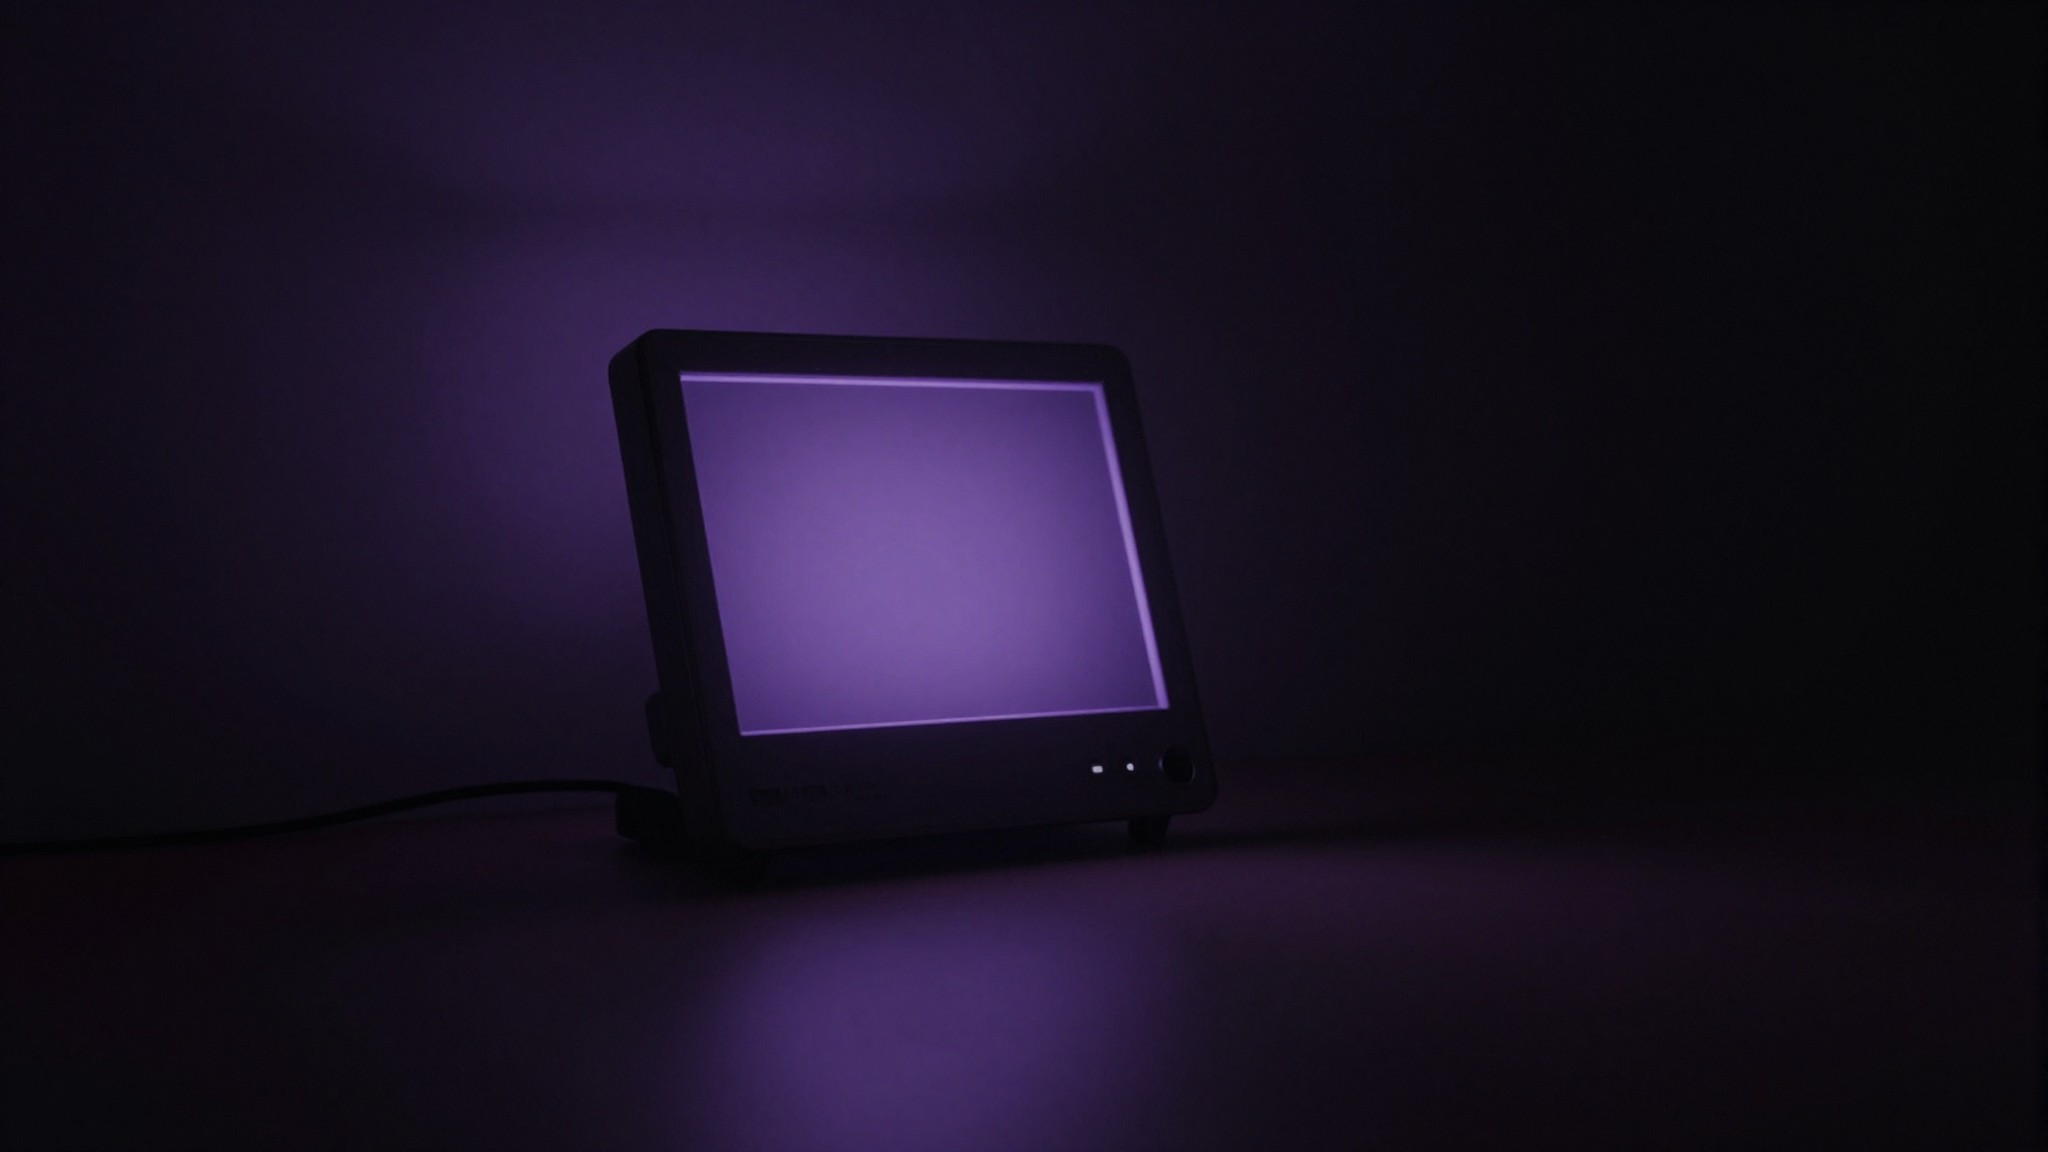
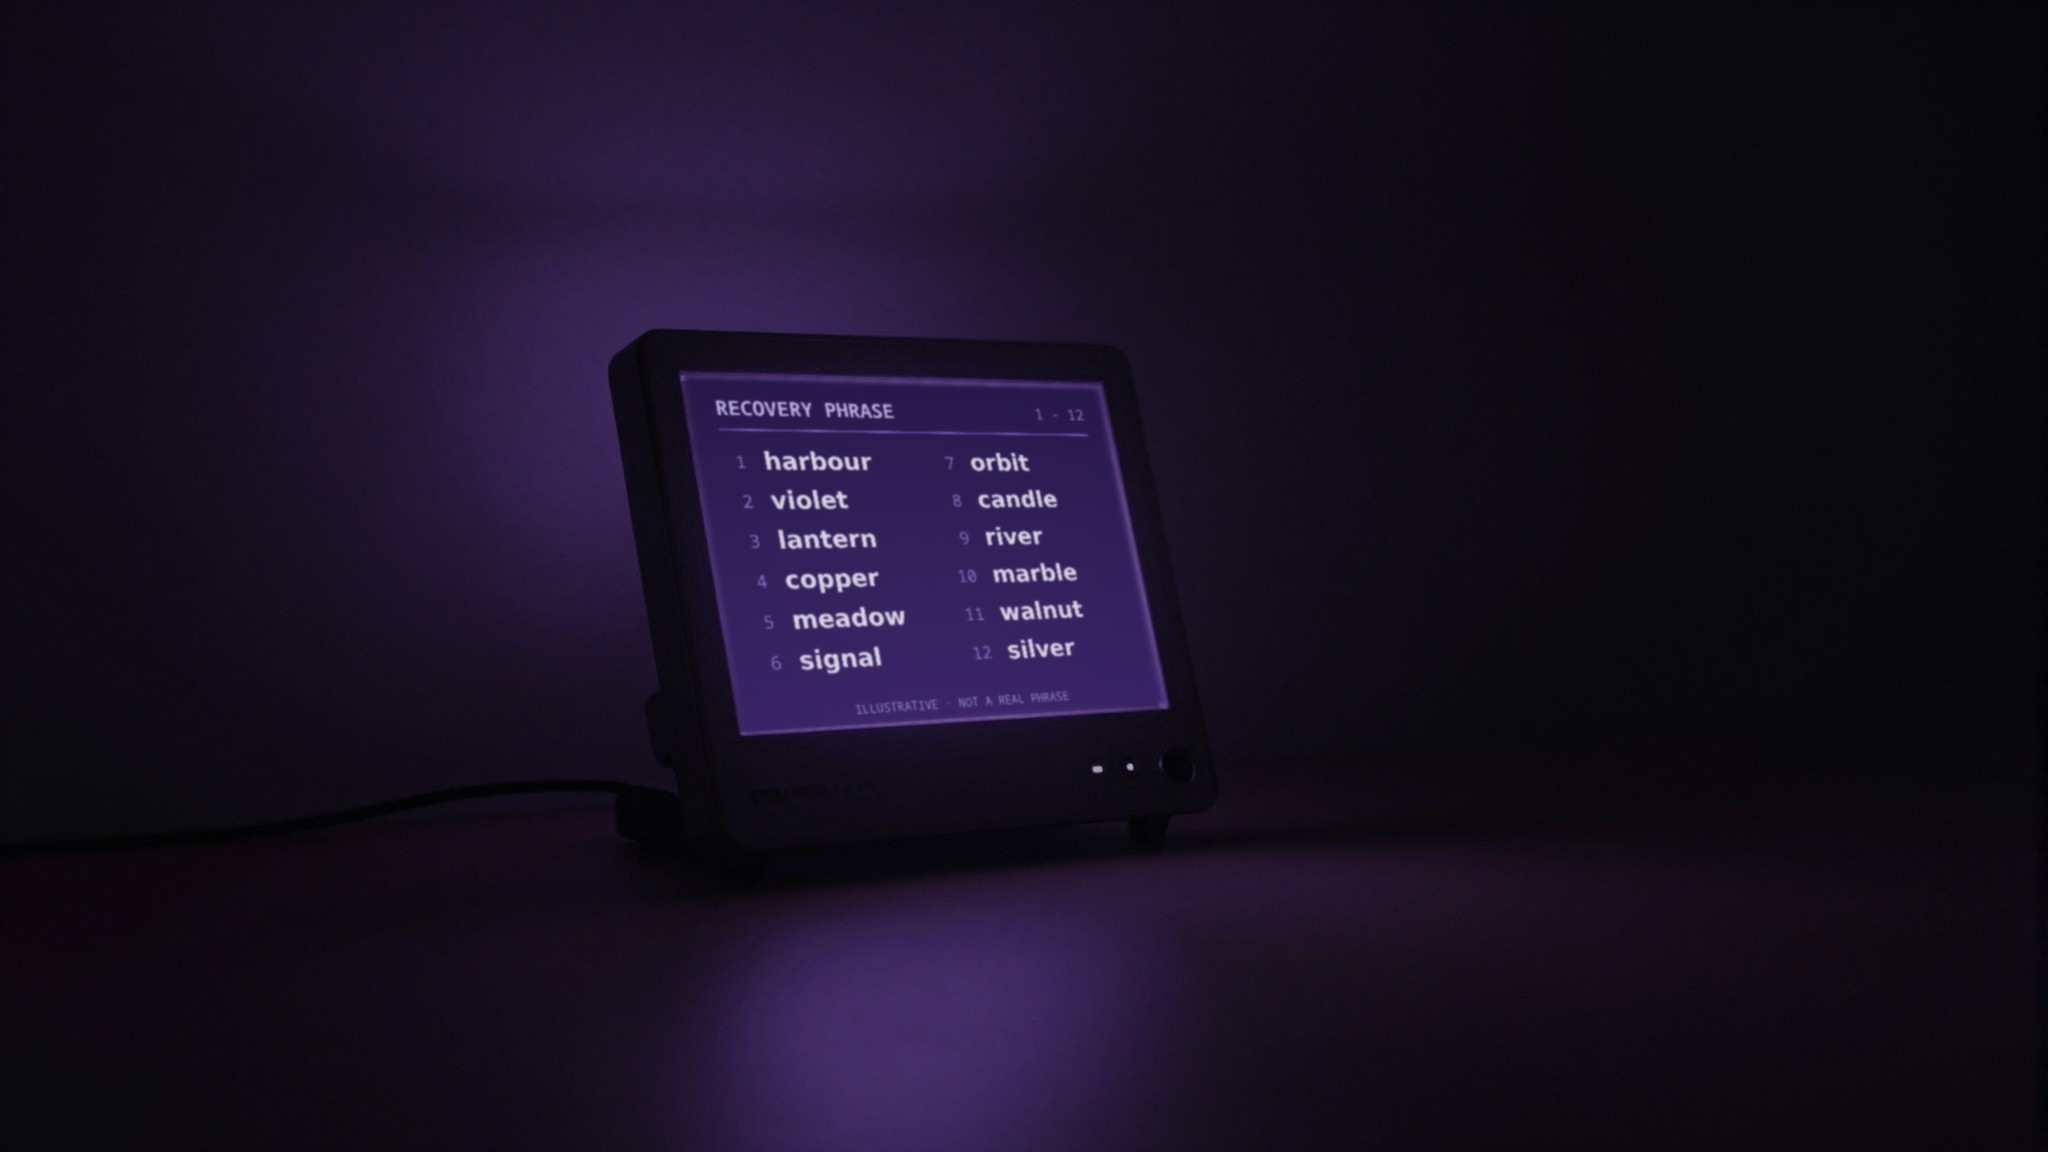
ep004 montage: fixes after first stills (Montserrat, Thomas crop, caption contrast, screen content, labels)
Claude-Session: https://claude.ai/code/session_01Ms4JQ56eZy6fr2K7HfgwG7

Changed region(s): [[0.3125, 0.3125, 0.5938, 0.6562]]

diff --git a/scripts/ep004_screen_content.py b/scripts/ep004_screen_content.py
@@ -1,0 +1,109 @@
+"""Put content on the blank screens of three ep. 004 illustrations (CPU only; owner rule: no empty screens).
+
+b6_setup_screen   small device on the desk: one recovery word being shown ("Word 7 of 24").
+b7_secret_display the device alone: a numbered word list (invented words, labelled ILLUSTRATIVE).
+h1_owner_kitchen  laptop behind the held device: a wallet app asking to connect the device.
+
+Flat content -> perspective warp onto the screen quad -> feathered mask -> blended into the photo.
+The untouched originals are kept next to the result as <name>_blank.jpg (made on the first run).
+"""
+import os
+import shutil
+import cv2
+import numpy as np
+from PIL import Image, ImageDraw, ImageFont
+
+ROOT = os.path.join(os.path.dirname(os.path.abspath(__file__)), "..")
+IMG = os.path.join(ROOT, "illustrations", "ep004", "img")
+SANS = "/usr/share/fonts/truetype/dejavu/DejaVuSans%s.ttf"
+MONO = os.path.join(ROOT, "fonts", "NotoSansMono-%s.ttf")
+WORDS = ["harbour", "violet", "lantern", "copper", "meadow", "signal", "orbit", "candle", "river", "marble",
+         "walnut", "silver"]
+
+
+def F(path, size):
+    return ImageFont.truetype(path, size)
+
+
+def one_word(W=900, H=700):
+    im = Image.new("RGB", (W, H), (96, 226, 196))
+    d = ImageDraw.Draw(im)
+    dark = (10, 46, 44)
+    d.text((W / 2, 150), "WORD 7 OF 24", font=F(MONO % "Bold", 62), fill=(24, 92, 84), anchor="mm")
+    d.text((W / 2, 360), "orbit", font=F(SANS % "-Bold", 210), fill=dark, anchor="mm")
+    for i in range(24):
+        x = 96 + i * 30
+        d.rounded_rectangle((x, 560, x + 20, 580), 5, fill=dark if i < 7 else (60, 170, 150))
+    return im
+
+
+def word_list(W=1300, H=1000):
+    g = np.linspace(0, 1, H)[:, None] + np.zeros((1, W))
+    im = Image.fromarray(np.dstack([40 + 22 * g, 26 + 14 * g, 78 + 34 * g]).astype(np.uint8))
+    d = ImageDraw.Draw(im)
+    d.text((80, 96), "RECOVERY PHRASE", font=F(MONO % "Bold", 58), fill=(214, 200, 255), anchor="lm")
+    d.text((W - 80, 96), "1 - 12", font=F(MONO % "Regular", 46), fill=(160, 140, 220), anchor="rm")
+    d.line((80, 160, W - 80, 160), fill=(140, 112, 230), width=4)
+    for i, w in enumerate(WORDS):
+        x = 80 + (i // 6) * 620
+        y = 250 + (i % 6) * 112
+        d.text((x, y), "%2d" % (i + 1), font=F(MONO % "Regular", 50), fill=(150, 128, 220), anchor="lm")
+        d.text((x + 110, y), w, font=F(SANS % "-Bold", 70), fill=(244, 240, 255), anchor="lm")
+    d.text((W / 2, H - 50), "ILLUSTRATIVE · NOT A REAL PHRASE", font=F(MONO % "Regular", 34),
+           fill=(170, 150, 230), anchor="mm")
+    return im
+
+
+def wallet_app(W=1500, H=1000):
+    im = Image.new("RGB", (W, H), (20, 18, 30))
+    d = ImageDraw.Draw(im)
+    d.rectangle((0, 0, W, 70), fill=(12, 11, 20))
+    for i, c in enumerate([(200, 84, 96), (190, 160, 90), (110, 150, 120)]):
+        d.ellipse((28 + i * 44, 22, 54 + i * 44, 48), fill=c)
+    d.text((W / 2, 36), "Wallet", font=F(SANS % "", 30), fill=(150, 146, 170), anchor="mm")
+    d.rectangle((0, 70, 300, H), fill=(15, 14, 24))
+    for i, t in enumerate(["Portfolio", "Accounts", "Send", "Receive", "Settings"]):
+        d.text((50, 150 + i * 80), t, font=F(SANS % "", 34), fill=(120, 116, 146) if i else (200, 190, 255),
+               anchor="lm")
+    cx = 300 + (W - 300) / 2 + 160
+    d.rounded_rectangle((cx - 90, 250, cx + 90, 560), 26, outline=(157, 123, 255), width=8)
+    d.rounded_rectangle((cx - 58, 290, cx + 58, 400), 8, outline=(157, 123, 255), width=5)
+    d.ellipse((cx - 22, 462, cx + 22, 506), outline=(157, 123, 255), width=5)
+    d.text((cx, 660), "Connect your device", font=F(SANS % "-Bold", 62), fill=(236, 232, 250), anchor="mm")
+    d.text((cx, 740), "Unlock it and open the app", font=F(SANS % "", 38), fill=(150, 146, 176), anchor="mm")
+    d.rounded_rectangle((cx - 170, 810, cx + 170, 890), 40, fill=(157, 123, 255))
+    d.text((cx, 850), "Continue", font=F(SANS % "-Bold", 38), fill=(20, 16, 34), anchor="mm")
+    return im
+
+
+def put(name, content, quad, alpha=0.94, feather=5, blur=1.2, occl=None, gain=1.0):
+    """quad: TL, TR, BR, BL in full-image pixels. occl: polygon that stays in front of the screen."""
+    path = os.path.join(IMG, name + ".jpg")
+    blank = os.path.join(IMG, name + "_blank.jpg")
+    if not os.path.exists(blank):
+        shutil.copy(path, blank)
+    base = cv2.imread(blank).astype(np.float32)
+    h, w = base.shape[:2]
+    src = cv2.cvtColor(np.asarray(content), cv2.COLOR_RGB2BGR)
+    sh, sw = src.shape[:2]
+    M = cv2.getPerspectiveTransform(np.float32([[0, 0], [sw, 0], [sw, sh], [0, sh]]), np.float32(quad))
+    warped = cv2.warpPerspective(src, M, (w, h), flags=cv2.INTER_AREA).astype(np.float32) * gain
+    warped = cv2.GaussianBlur(warped, (0, 0), blur)
+    mask = np.zeros((h, w), np.float32)
+    cv2.fillConvexPoly(mask, np.int32(quad), 1.0)
+    mask = cv2.erode(mask, np.ones((feather, feather), np.uint8))
+    if occl is not None:
+        cv2.fillPoly(mask, [np.int32(occl)], 0.0)
+    mask = cv2.GaussianBlur(mask, (0, 0), feather * 0.6)[..., None] * alpha
+    out = base * (1 - mask) + warped * mask
+    cv2.imwrite(path, out.clip(0, 255).astype(np.uint8), [cv2.IMWRITE_JPEG_QUALITY, 93])
+    return out
+
+
+if __name__ == "__main__":
+    put("b6_setup_screen", one_word(), [(512, 638), (717, 615), (782, 764), (578, 797)], feather=4, blur=0.8)
+    put("b7_secret_display", word_list(), [(680, 372), (1100, 385), (1168, 705), (742, 735)], blur=1.0, gain=0.92)
+    occ = [(795, 800), (900, 585), (940, 570), (945, 540), (1002, 532), (1020, 585), (1070, 612), (1072, 650),
+           (1055, 770), (1050, 800), (1050, 900), (795, 900)]
+    put("h1_owner_kitchen", wallet_app(), [(908, 372), (1488, 388), (1435, 790), (850, 770)], alpha=0.9,
+        feather=7, blur=1.4, occl=occ, gain=0.8)

diff --git a/graphics/motion/scenes.py b/graphics/motion/scenes.py
@@ -733,6 +733,9 @@ def chat_deleted(ctx, t, d, header="Firm × Drift contributors", source=None):
         source_tag(ctx, source, a)
 
 
+STAMP = (0.62, 0.12, 0.20)
+
+
 def dossier(ctx, t, d, stamp, lines=(), source=None):
     a = fade_io(t, d)
     rgba(ctx, (0.80, 0.74, 0.62), a * 0.9)
@@ -750,12 +753,12 @@ def dossier(ctx, t, d, stamp, lines=(), source=None):
         ctx.translate(960, 700)
         ctx.rotate(-0.12)
         ctx.scale(1 + (1 - s) * 0.6, 1 + (1 - s) * 0.6)
-        rgba(ctx, (0.85, 0.45, 0.05), a * s * 0.9)
+        rgba(ctx, STAMP, a * s * 0.9)
         ctx.set_line_width(8)
         rrect(ctx, -440, -70, 880, 140, 10)
         ctx.stroke()
         for i, ln in enumerate(stamp.split("\n")):
-            text(ctx, ln, 0, -10 + i * 52, (0.85, 0.45, 0.05), a * s, align="center", face=MONO, size=40,
+            text(ctx, ln, 0, -10 + i * 52, STAMP, a * s, align="center", face=MONO, size=40,
                  tracking=4)
         ctx.restore()
     if source:
@@ -1241,9 +1244,10 @@ def illus(ctx, t, d, name, move="in", kicker=None, line=None, statement=None, so
         rgba(ctx, (0, 0, 0), dim * a)
         ctx.paint()
     if kicker or line:
-        g = cairo.LinearGradient(0, H * 0.45, 0, H)
+        g = cairo.LinearGradient(0, H * 0.42, 0, H)
         g.add_color_stop_rgba(0, 0, 0, 0, 0)
-        g.add_color_stop_rgba(1, 0, 0, 0, 0.78 * a)
+        g.add_color_stop_rgba(0.55, 0.03, 0.02, 0.06, 0.66 * a)
+        g.add_color_stop_rgba(1, 0.03, 0.02, 0.06, 0.92 * a)
         ctx.set_source(g)
         ctx.paint()
         p = ease_out(prog(t, 0.3, 0.8))
@@ -1258,7 +1262,8 @@ def illus(ctx, t, d, name, move="in", kicker=None, line=None, statement=None, so
     if statement:
         g = cairo.LinearGradient(0, H * 0.35, 0, H)
         g.add_color_stop_rgba(0, 0, 0, 0, 0)
-        g.add_color_stop_rgba(1, 0, 0, 0, 0.8 * a)
+        g.add_color_stop_rgba(0.6, 0.03, 0.02, 0.06, 0.62 * a)
+        g.add_color_stop_rgba(1, 0.03, 0.02, 0.06, 0.92 * a)
         ctx.set_source(g)
         ctx.paint()
         p = ease_out(prog(t, 0.4, 0.9))

diff --git a/graphics/motion/ep004.py b/graphics/motion/ep004.py
@@ -32,6 +32,16 @@ PALE = (0.85, 0.82, 1.0)
 REDL = (1.0, 0.15, 0.2)
 
 
+def thomas(ctx, t, d, **p):
+    """Thomas, pushed in 3.5% from the top so the dark front edge of the desk stays out of frame."""
+    ctx.save()
+    ctx.translate(E.W / 2, 0)
+    ctx.scale(1.035, 1.035)
+    ctx.translate(-E.W / 2, 0)
+    S.presenter(ctx, t, d, **p)
+    ctx.restore()
+
+
 def thomas_shots(tl):
     if not os.path.exists(CLIP_PLAN):
         return []
@@ -104,7 +114,7 @@ def overlay_thomas(T, shots):
     for a, b, fr, t0, cam in shots:
         clip = dict(frames=fr, start=t0 - a, **FIT720)
         lt = 0.6 if a == first else 99
-        out.append((a, b, S.presenter, dict(image_path=THOMAS_REF, lower_third_at=lt, clip=clip,
+        out.append((a, b, thomas, dict(image_path=THOMAS_REF, lower_third_at=lt, clip=clip,
                                              zoom=CLOSE if cam == "C" else None)))
     return out
 
@@ -254,7 +264,7 @@ def build(tl):
     IL(s("c8"), s("c9"), "c8_shop_shutter", "in", kicker="MARCH 2026 · CRYPTOBILIS", line="The shop changes hands.",
        source="[S6]", **OUT)
     IL(s("c9"), s("c10"), "c9_handshake_papers", "in", kicker="THE FOUNDERS' ACCOUNT",
-       line="Sold to a new team. Buyer not named. They deny any involvement.", source="[S6]", warm=False,
+       line="Sold to a new team, buyer not named. The founders deny any involvement.", source="[S6]", warm=False,
        flick=fl(1740, 140, 380, "flicker", 0.28, 13))
     c = card(e("c10"))
     add(s("c10"), c, S.statement, line="Who owned the shop by October? Nobody has said publicly.")
@@ -412,7 +422,7 @@ def check_unique(T):
 
 def check_no_flash(T):
     bad = [(round(a, 2), round(b, 2)) for a, b, fn, p in T
-           if b - a < 1.0 and fn is not S.black and fn is not S.presenter]
+           if b - a < 1.0 and fn is not S.black and fn is not thomas]
     if bad:
         raise SystemExit(f"FLASH: scenes shorter than 1 s at {bad} - fix the cut before rendering")
 

diff --git a/graphics/motion/scenes_ep004.py b/graphics/motion/scenes_ep004.py
@@ -761,7 +761,7 @@ def quote_v(ctx, t, d, quote, who, source, v=0):
         _mono(ctx, who, W - 300, 430 + len(lines) * 112 + 40, a, GREY, 24, "right")
     elif v == 3:    # transcript panel, typed in mono
         _panel(ctx, 260, 300, W - 520, 480, a, 10)
-        _mono(ctx, "TRANSCRIPT · " + who, 300, 280, a, GREY, 20)
+        _mono(ctx, who, 300, 280, a, GREY, 22)
         n = int(len(quote) * clamp(prog(t, 0.2, max(d * 0.5, 0.6))))
         lines = wrap(ctx, quote[:n], W - 640, MONO, 56, False)
         for i, ln in enumerate(lines):
@@ -977,9 +977,9 @@ def _chip(ctx, x, y, w, h, a, col, label, sub, glow=0.0):
         ctx.move_to(px, y + h)
         ctx.line_to(px, y + h + 16)
     ctx.stroke()
-    text(ctx, label, x + w / 2, y + h / 2 - 4, INK, a, align="center", face=MONO, size=34)
-    for j, ln in enumerate(wrap(ctx, sub, w - 60, MONO, 24, False)):
-        text(ctx, ln, x + w / 2, y + h / 2 + 44 + j * 32, GREY, a, align="center", face=MONO, size=24, bold=False)
+    text(ctx, label, x + w / 2, y + h / 2 - 14, INK, a, align="center", face=MONO, size=46)
+    for j, ln in enumerate(wrap(ctx, sub, w - 50, MONO, 29, False)):
+        text(ctx, ln, x + w / 2, y + h / 2 + 46 + j * 38, GREY, a, align="center", face=MONO, size=29, bold=False)
 
 
 def two_brains(ctx, t, d, second_at=2.0, screen_at=None, source=None):
